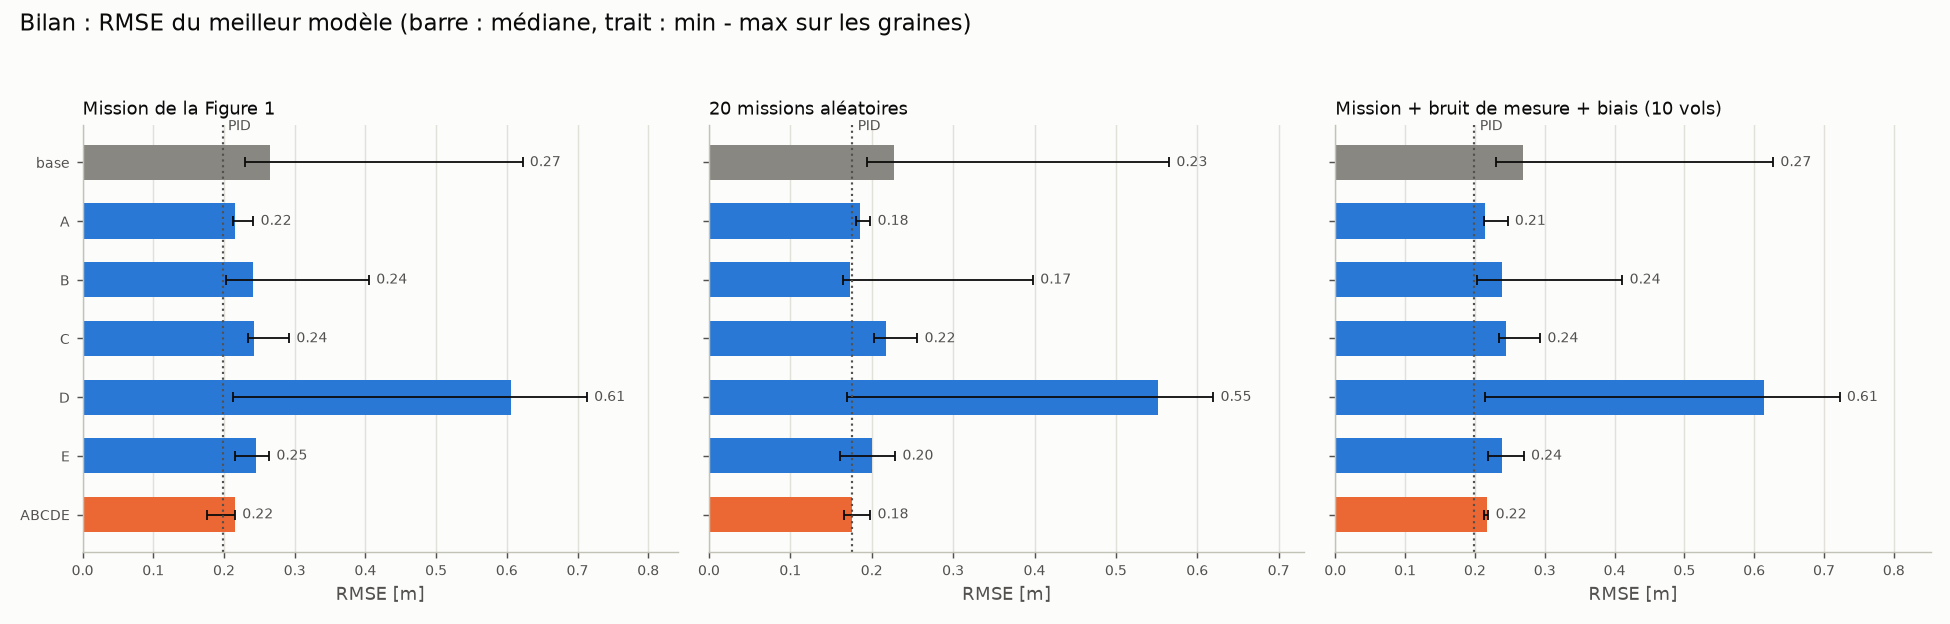
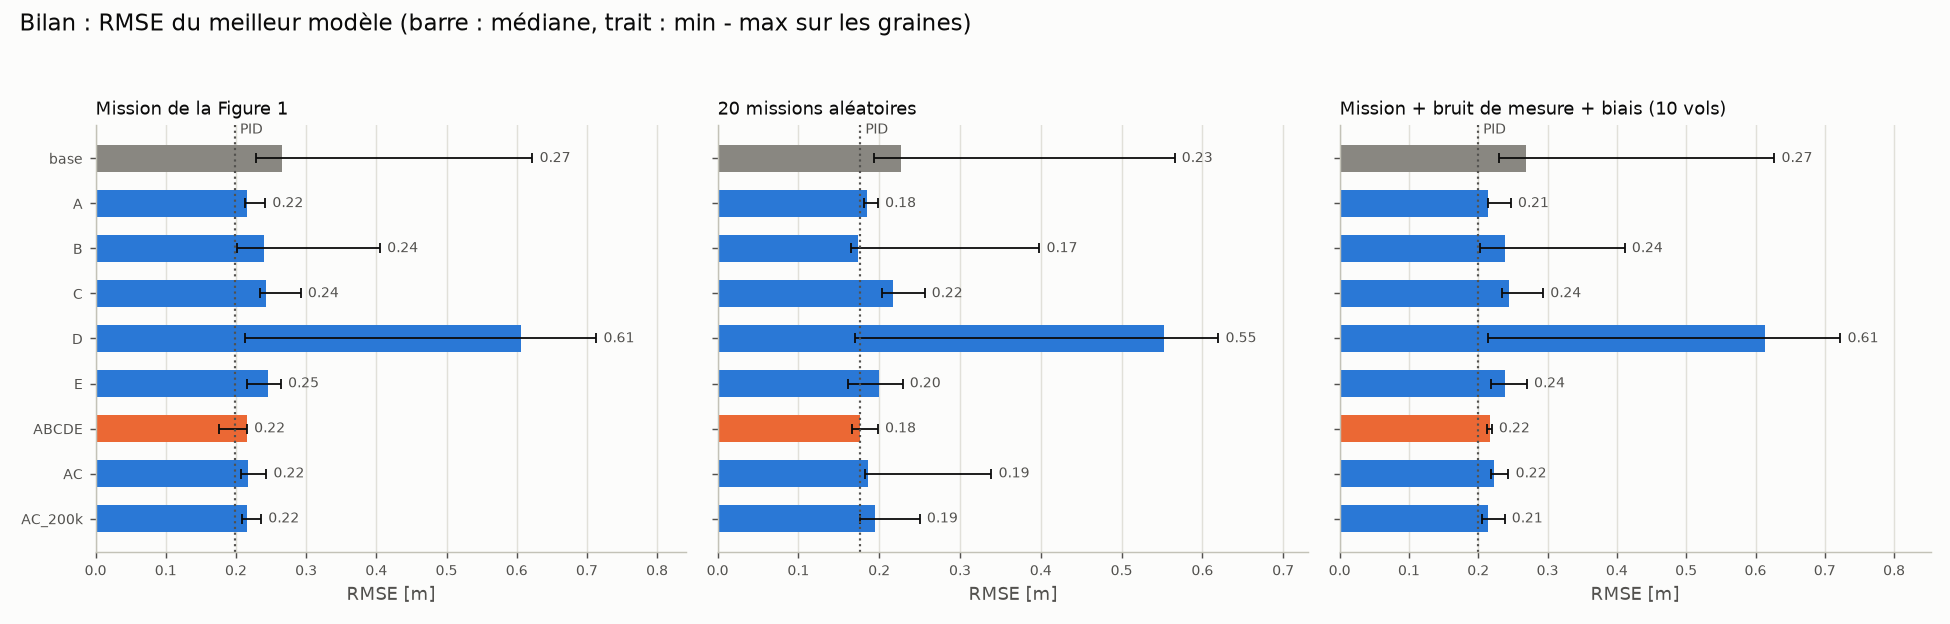
RL ablation : figures et README avec la comparaison finale de la qualité du vol

diff --git a/rl_ablation/README.md b/rl_ablation/README.md
@@ -55,9 +55,33 @@ Autres figures : [apprentissage](figures/1_apprentissage.png) (RMSE au cours de 
 [commandes](figures/3_commandes.png) (u pendant les vols), [bilan](figures/4_bilan.png) (mission, missions
 aléatoires, bruit + biais).
 
-## Suite : A + C
-A et C donnent les vols les plus lisses. La variante **AC** (action [0 ; 0,8] + intégrale) est entraînée
-comme les autres (100 000 pas), et **AC_200k** deux fois plus longtemps. Résultats à venir.
+## Suite : A + C, pour un vol moins oscillant
+Le vol d'ABCDE oscille. A et C donnant les vols les plus lisses, la variante **AC** (action [0 ; 0,8] +
+intégrale) est entraînée comme les autres (100 000 pas), et **AC_200k** deux fois plus longtemps.
+
+![Comparaison finale de la qualité du vol](figures/presentation/9_comparaison_vols.png)
+
+| Médiane sur 3 graines | ABCDE | AC | AC_200k | PID |
+|---|---|---|---|---|
+| RMSE mission [m] | 0.216 | 0.218 | 0.215 | **0.198** |
+| Erreur en fin de palier [m] | 0.093 | 0.124 | 0.133 | **0.035** |
+| Oscillation : abs(vz) en fin de palier [m/s] | 0.182 | **0.057** | 0.110 | 0.214 |
+| z min [m] (sol à -0,25) | -0.31 | -0.36 | -0.49 | -0.33 |
+| RMSE du modèle final [m] | **0.221** | 0.259 | 0.344 | - |
+| Variation de u par pas | 0.036 | **0.016** | 0.028 | 0.044 |
+
+- **AC** : commande la plus lisse et oscillations 3 fois plus faibles qu'ABCDE (et que le PID). Mais la
+  correction est lente : dépassement jusqu'à 0,64 m sur le palier à 0,5 m, environ 12 cm d'erreur en fin de
+  palier, atterrissage sous le sol. Les graines sont très différentes : la meilleure (graine 0) fait
+  3,3 cm d'erreur en fin de palier, au niveau du PID, sans passer sous le sol.
+- **AC_200k** : entraîner plus longtemps n'aide pas. Les oscillations lentes reviennent (0,11 m/s) et
+  l'apprentissage est moins stable (0,34 m en fin d'entraînement) : sans la récompense B, plus de pas ne fait
+  pas mieux converger.
+- Piste suivante : **A + B + C**. B rend l'apprentissage stable et le vol calme ; on retire D (qui rend la
+  tâche trop difficile) et E (commande « tout ou rien »).
+
+Figures face au départ : [AC](figures/presentation/7_AC_action_integrale.png) ·
+[AC_200k](figures/presentation/8_AC_200k_action_integrale_long.png)
 
 ## Les variantes
 
@@ -92,7 +116,7 @@ comme les autres (100 000 pas), et **AC_200k** deux fois plus longtemps. Résult
 |---|---|
 | `drone_env_ablation.py` | Environnement : `Env_drone.py` + les améliorations activables (`VARIANTES`) |
 | `train_variant.py` | Un entraînement : `python train_variant.py <variante> <graine> [pas]` |
-| `run_all.py` | Tous les entraînements, 7 en parallèle, puis l'analyse : `python run_all.py [parallèles] [pas]` (un entraînement déjà terminé n'est pas relancé) |
+| `run_all.py` | Tous les entraînements (7 variantes x 3 graines, puis AC et AC_200k), 7 en parallèle, puis l'analyse : `python run_all.py [parallèles] [pas]` (un entraînement déjà terminé n'est pas relancé) |
 | `analyse.py` | Figures (`figures/`, `figures/presentation/`) et tableau des résultats (`resultats.md`) |
 | `runs/<variante>_s<graine>/` | Un entraînement : évaluations, meilleur modèle et modèle final (`.zip` SB3), vol, export MATLAB (`policy.mat`, `traj_model.mat`) |
 

diff --git a/rl_ablation/resultats.md b/rl_ablation/resultats.md
@@ -11,4 +11,6 @@ Médiane (min - max) sur les graines ; meilleur modèle de chaque entraînement.
 | **D** | missions aléatoires + bruit + biais | 3 | 0.606 (0.212 - 0.713) | 0.587 (0.059 - 0.683) | 0.019 (0.008 - 0.112) | -0.16 (-0.18 - -0.16) | 0.013 (0.010 - 0.024) | 0.552 (0.170 - 0.620) | 0.613 (0.214 - 0.722) | 70 / 5 / 5 | 2.710 (0.804 - 5.238) |
 | **E** | entropie de SAC fixée à 0,02 | 3 | 0.245 (0.216 - 0.264) | 0.049 (0.015 - 0.059) | 0.137 (0.047 - 0.231) | -0.24 (-0.25 - -0.22) | 0.779 (0.548 - 1.065) | 0.200 (0.161 - 0.229) | 0.239 (0.218 - 0.270) | 50 / 20 / 95 | 0.363 (0.289 - 0.417) |
 | **ABCDE** | toutes les améliorations | 3 | 0.216 (0.176 - 0.216) | 0.093 (0.077 - 0.097) | 0.182 (0.058 - 0.293) | -0.31 (-0.50 - -0.24) | 0.036 (0.030 - 0.062) | 0.176 (0.166 - 0.198) | 0.217 (0.213 - 0.219) | 5 / 45 / 100 | 0.221 (0.178 - 0.246) |
+| **AC** | action [0 ; 0,8] + intégrale (100k pas) | 3 | 0.218 (0.208 - 0.243) | 0.124 (0.033 - 0.136) | 0.057 (0.027 - 0.064) | -0.36 (-0.49 - -0.24) | 0.016 (0.015 - 0.029) | 0.186 (0.183 - 0.339) | 0.222 (0.218 - 0.243) | 65 / 80 / 45 | 0.259 (0.253 - 0.512) |
+| **AC_200k** | action [0 ; 0,8] + intégrale (200k pas) | 3 | 0.215 (0.209 - 0.236) | 0.133 (0.062 - 0.181) | 0.110 (0.106 - 0.119) | -0.49 (-0.63 - -0.24) | 0.028 (0.017 - 0.154) | 0.194 (0.177 - 0.250) | 0.214 (0.205 - 0.238) | 70 / 160 / 200 | 0.344 (0.236 - 0.691) |
 | PID | référence linéaire | - | 0.198 | 0.035 | 0.214 | -0.33 | 0.044 | 0.176 | 0.199 | - | - |
